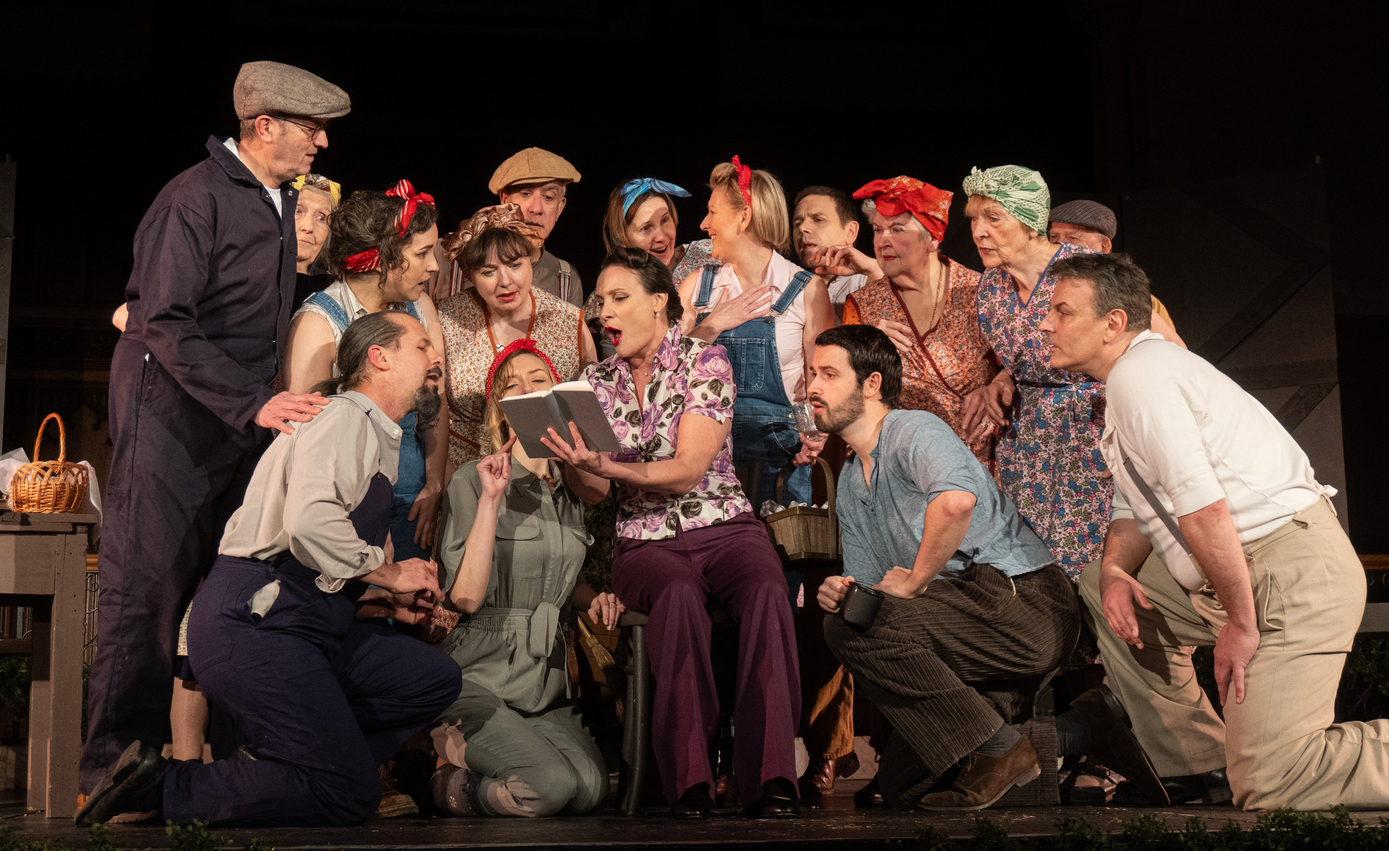
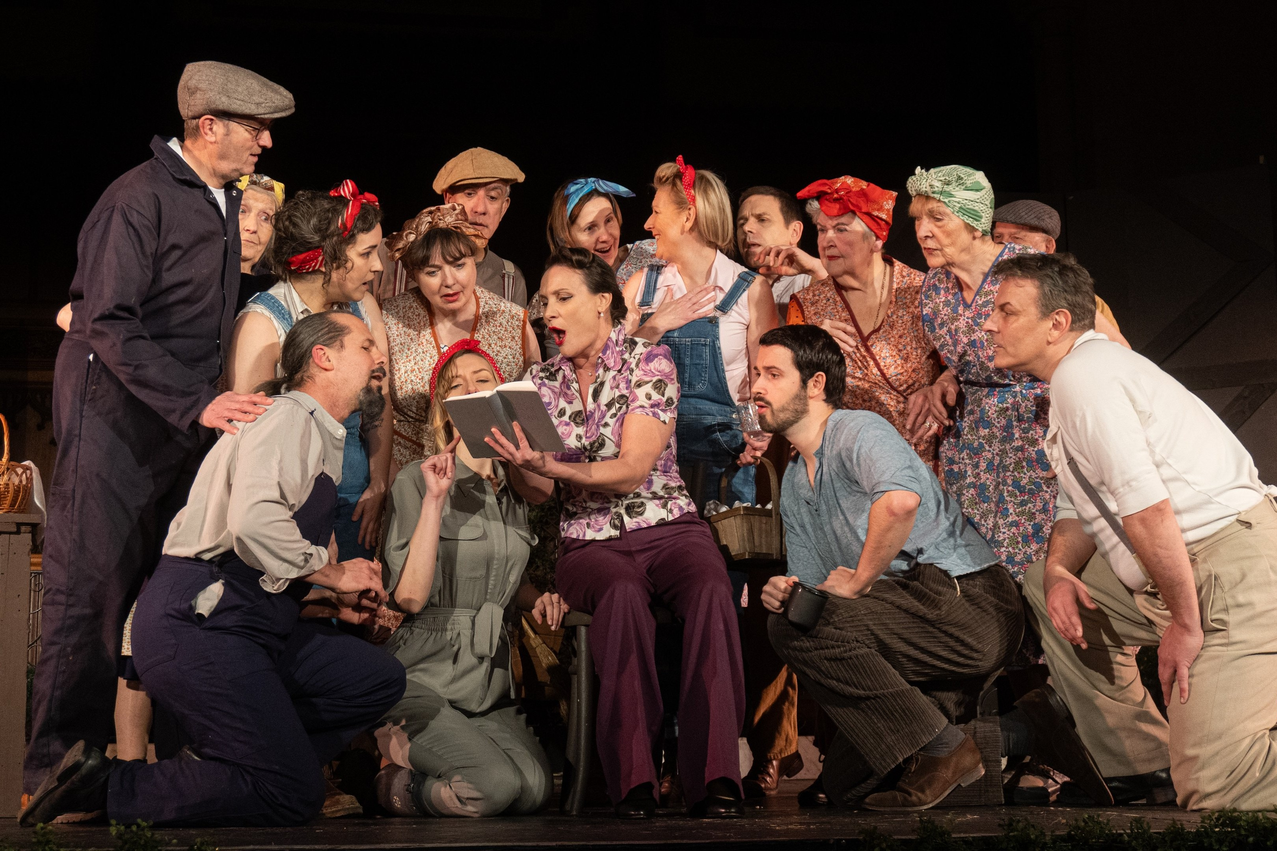
assisting2

diff --git a/carmen.html b/carmen.html
@@ -86,12 +86,12 @@
 				<div class="container-fluid">
 					<div class="row">
 
-						<div class="col-md-6 col-lg-4" data-aos="fade-up" data-aos-delay="300">
+						<div class="col-md-6 col-lg-4" data-aos="fade-up" data-aos-delay="200">
 							<a href="images/carmen/habanera.jpg" class="media-1 glightbox">
 								<img src="images/carmen/habanera.jpg" alt="Image" class="img-fluid">
 							</a>
 						</div>
-						<div class="col-md-6 col-lg-4" data-aos="fade-up" data-aos-delay="400">
+						<div class="col-md-6 col-lg-4" data-aos="fade-up" data-aos-delay="300">
 							<a href="images/carmen/micaelagraffiti.jpg" class="media-1 glightbox">
 								<img src="images/carmen/micaelagraffiti.jpg" alt="Image" class="img-fluid">
 							</a>
@@ -168,6 +168,7 @@
 		<div class="container">
 			<div class="row">
 				<div class="col-lg-9 pe-lg-5" data-aos="fade-up">
+					<h2 class="mb-4"><b>Opera Integra, March 2025</b></h2>
 					<h2 class="mb-4">Set & Costume Design: <b>Patricia Gómez</b></h2>
 					<h2 class="mb-4">Lighting Design: <b>Paul Need</b></h2>
 				</div>

diff --git a/assisting.html b/assisting.html
@@ -64,14 +64,12 @@
 
 	<div class="hero v-h-full overlay">
 		<div class="img-bg rellax">
-			<img src="images/orfeo/pose2.jpg" alt="Assistant Directing" class="img-fluid">
+			<img src="images/orfeo/messengerall.jpg" alt="Assistant Directing" class="img-fluid">
 		</div>
 		<div class="container">
 			<div class="row align-items-center v-h-full">
 				<div class="col-lg-7 col-xxl-6 mx-auto text-center">
 					<h1 class="heading-2 text-white mb-3" data-aos="fade-up">Assistant Directing</h1>
-					<!-- <p data-aos="fade-up" data-aos-delay="200" class="text-white lead mb-4"><i>Monteverdi</i></p> -->
-					<!-- <h1><p data-aos="fade-up" data-aos-delay="400" class="text-white lead mb-4">Richmond Opera, April '25</p></h1> -->
 				</div>
 			</div>
 		</div>
